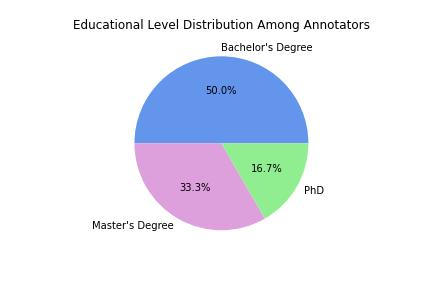
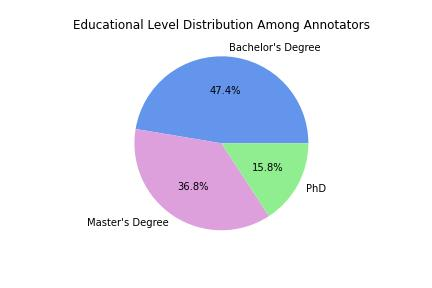
one more ML annotator

diff --git a/README.md b/README.md
@@ -15,9 +15,9 @@ The educational domain has the potential to benefit greatly from controllable te
 | analyzing | Bloom's | The question should ask students to break material into parts, and/or show how different ideas relate to one another. |
 | evaluating | Bloom's | The question should ask students to give opinions on, make judgments about, or interpret meaning from material. |
 | creating | Bloom's | The question should ask students to combine material together in a different way than it was presented. |
-| beginner | Level | The question should be posed so that the correct answer is a simple span from the input context (often a single concept or a list). |
-| intermediate | Level | The question should be posed so that the correct answer is a span from the input context that is more complex than a single concept (eg. an explanation or an example), or requires understanding on the part of the student to arrive at a simple answer. |
-| advanced | Level | The question should be posed so that the correct answer requires a student's rephrasing of multiple parts of the input, or the answer must require independent thought. |
+| beginner | level | The question should be posed so that the correct answer is a simple span from the input context (often a single concept or a list). |
+| intermediate | level | The question should be posed so that the correct answer is a span from the input context that is more complex than a single concept (eg. an explanation or an example), or requires understanding on the part of the student to arrive at a simple answer. |
+| advanced | level | The question should be posed so that the correct answer requires a student's rephrasing of multiple parts of the input, or the answer must require independent thought. |
 
 ## Teacher Assessment Metrics
 | Metric | Definition |
@@ -69,7 +69,7 @@ N.b. These results do not include the 'agreement passage' which was annotated by
 ### Biology Domain
 | Question Taxonomy | n | Relevance (avg) | Relevance (std) | Grammar (avg) | Grammar (std) | Adherence (avg) | Adherence (std) | Answerable (avg) | Answerable (std) | Useful (avg) | Useful (std) |
 |---|---|---|---|---|---|---|---|---|---|---|---|
-| all candidates | 36 | 0.9667 | 0.1798 | 0.9630 | 0.1897 | 0.6741 | 0.4696 | 0.9259 | 0.2631 | 3.507 | 0.6884 |
+| all candidates | 36 | 0.9722 | 0.1646 | 0.9704 | 0.1699 | 0.6914 | 0.4626 | 0.9296 | 0.2562 | 3.5926 | 0.6820 |
 | remembering | 36 | 0.9167 | 0.2803 | 0.9333 | 0.2537 | 0.9167 | 0.2803 | 0.9667 | 0.1826 | 3.7083 | 0.5901 |
 | understanding | 36 | 0.9722 | 0.1667 | 0.9667 | 0.1826 | 0.7778 | 0.4216 | 1.0000 | 0.0000 | 3.7361 | 0.4051 |
 | applying | 36 | 0.9722 | 0.1667 | 1.0000 | 0.0000 | 0.5833 | 0.5000 | 0.9000 | 0.3051 | 3.5556 | 0.7049 |
@@ -83,13 +83,13 @@ N.b. These results do not include the 'agreement passage' which was annotated by
 ### Machine Learning Domain
 | Question Taxonomy | n | Relevance (avg) | Relevance (std) | Grammar (avg) | Grammar (std) | Adherence (avg) | Adherence (std) | Answerable (avg) | Answerable (std) | Useful (avg) | Useful (std) |
 |---|---|---|---|---|---|---|---|---|---|---|---|
-| all candidates | 30 | 0.9722 | 0.1646 | 0.9704 | 0.1699 | 0.6914 | 0.4626 | 0.9296 | 0.2562 | 3.5926 | 0.6820 |
-| remembering | 30 | 0.9667 | 0.1826 | 1.0000 | 0.0000 | 0.8333 | 0.3790 | 1.0000 | 0.0000 | 3.7833 | 0.3869 |
-| understanding | 30 | 1.0000 | 0.0000 | 0.9167 | 0.2887 | 0.8000 | 0.4068 | 0.8333 | 0.3892 | 3.5833 | 0.6029 |
-| applying | 30 | 0.9667 | 0.1826 | 1.0000 | 0.0000 | 0.6667 | 0.4795 | 0.8333 | 0.3892 | 3.6000 | 0.6074 |
-| analyzing | 30 | 0.9667 | 0.1826 | 0.8333 | 0.3892 | 0.7333 | 0.4498 | 0.9167 | 0.2887 | 3.3333 | 0.8743 |
-| evaluating | 30 | 0.9333 | 0.2537 | 1.0000 | 0.0000 | 0.5333 | 0.5074 | 0.8333 | 0.3892 | 3.4167 | 0.8209 |
-| creating | 30 | 0.9333 | 0.2537 | 1.0000 | 0.0000 | 0.4000 | 0.4983 | 1.0000 | 0.0000 | 3.5167 | 0.6226 |
-| beginner | 30 | 1.0000 | 0.0000 | 1.0000 | 0.0000 | 0.6333 | 0.4901 | 1.0000 | 0.0000 | 3.7333 | 0.5683 |
-| intermediate | 30 | 0.9667 | 0.1826 | 1.0000 | 0.0000 | 0.6667 | 0.4795 | 1.0000 | 0.0000 | 3.6167 | 0.5826 |
-| advanced | 30 | 0.9667 | 0.1826 | 0.9167 | 0.2887 | 0.8000 | 0.4068 | 0.9167 | 0.2887 | 2.9833 | 0.7368 |
+| all candidates | 36 | 0.9667 | 0.1798 | 0.9568 | 0.2040 | 0.6741 | 0.4696 | 0.9136 | 0.2819 | 3.7667 | 0.3880 |
+| remembering | 36 | 0.9667 | 0.1826 | 1.0000 | 0.0000 | 0.8333 | 0.3790 | 1.0000 | 0.0000 | 3.5500 | 0.6208 |
+| understanding | 36 | 1.0000 | 0.0000 | 0.8889 | 0.3234 | 0.8000 | 0.4068 | 0.8333 | 0.3835 | 3.6500 | 0.5746 |
+| applying | 36 | 0.9667 | 0.1826 | 1.0000 | 0.0000 | 0.6667 | 0.4795 | 0.8889 | 0.3234 | 3.2667 | 0.8584 |
+| analyzing | 36 | 0.9667 | 0.1826 | 0.8889 | 0.3234 | 0.7333 | 0.4498 | 0.8333 | 0.3835 | 3.4000 | 0.8030 |
+| evaluating | 36 | 0.9333 | 0.2537 | 1.0000 | 0.0000 | 0.5333 | 0.5074 | 0.8333 | 0.3835 | 3.5667 | 0.5371 |
+| creating | 36 | 0.9333 | 0.2537 | 1.0000 | 0.0000 | 0.4000 | 0.4983 | 1.0000 | 0.0000 | 3.7333 | 0.5683 |
+| beginner | 36 | 1.0000 | 0.0000 | 0.9444 | 0.2357 | 0.6333 | 0.4901 | 0.9444 | 0.2357 | 3.6333 | 0.5403 |
+| intermediate | 36 | 0.9667 | 0.1826 | 0.9444 | 0.2357 | 0.6667 | 0.4795 | 1.0000 | 0.0000 | 3.0167 | 0.7250 |
+| advanced | 36 | 0.9667 | 0.1826 | 0.9444 | 0.2357 | 0.8000 | 0.4068 | 0.8889 | 0.3234 | 3.2639 | 0.8659 |
